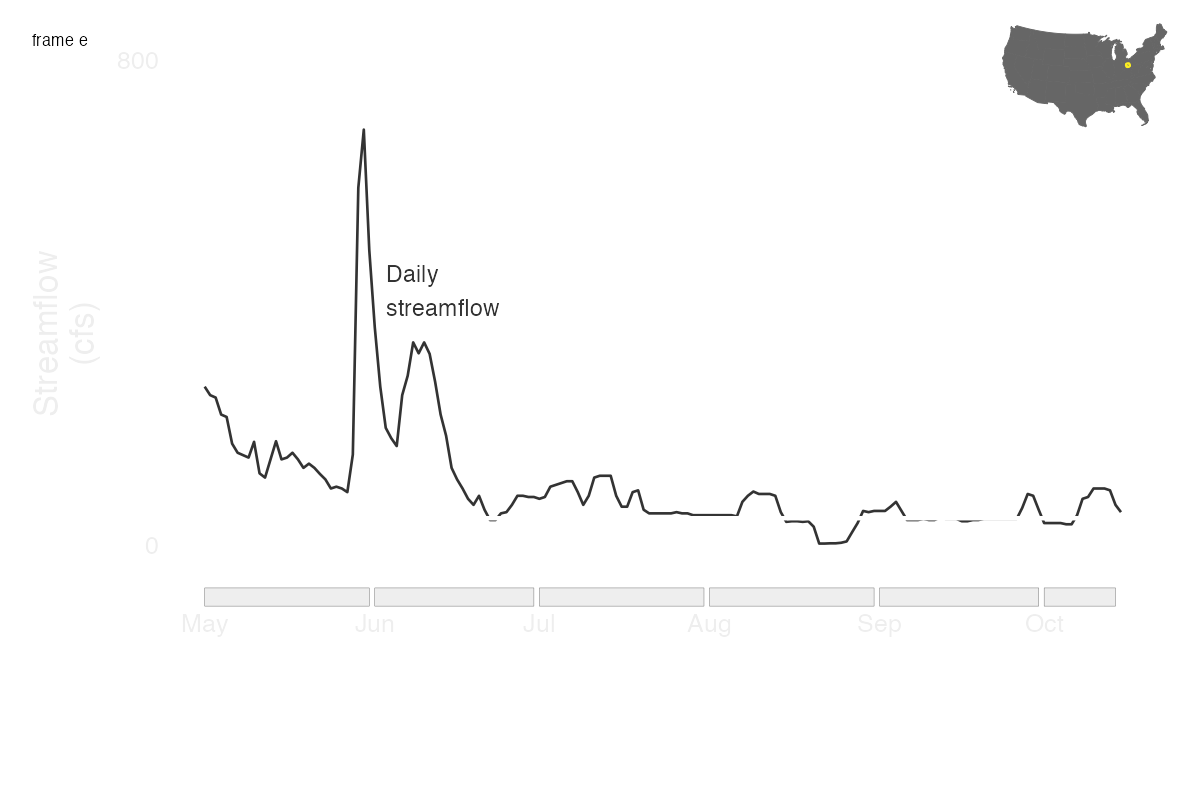
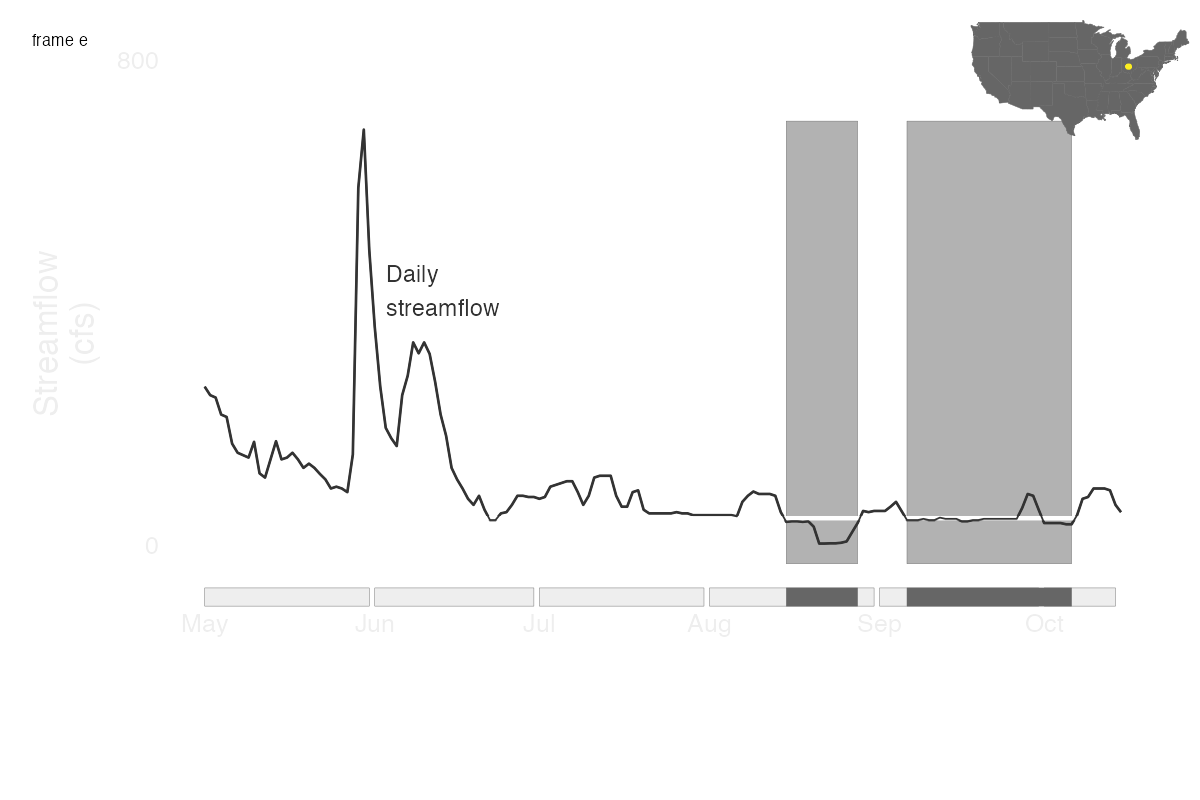
rework progression, remake inset map

Changed region(s): [[0.6475, 0.0, 1.0, 0.7812]]

diff --git a/src/assets/text/scrollyText.js b/src/assets/text/scrollyText.js
@@ -5,8 +5,26 @@ export default {
         {
           // id is used to source image files with the same naming
           // and used to assign classes to scrolling text
-          id: 'aa',
-          text: 'text aa: There are many types of drought, from meteorological drought to hydrological drought, and each type affects different aspects of our nation’s water use. Streamflow drought is one specific form of hydrological drought that is defined based on the rate of flow for a given stream in cubic feet per second.'
+          id: 'aa01',
+          text: 'text aa01: There are many different types of drought, with varying effects on our daily lives.'
+        },
+        {
+          // id is used to source image files with the same naming
+          // and used to assign classes to scrolling text
+          id: 'aa02',
+          text: 'text aa02: Drought often begins as meterological drought, which means that there is less rain or snow melt than expected.'
+        },
+        {
+          // id is used to source image files with the same naming
+          // and used to assign classes to scrolling text
+          id: 'aa03',
+          text: 'text aa03: Meterological drought can lead to agricultural drought, which is where soil moisture becomes depleted and our crops and livestock begin to suffer and farmers rely on using irrigation.'
+        },
+        {
+          // id is used to source image files with the same naming
+          // and used to assign classes to scrolling text
+          id: 'aa04',
+          text: 'text aa04: Prolonged agricultural drought can begin to cause hydrological drought, which affects deeper soil layers and eventually reduces streamflow. Streamflow drought is one type of hydrological drought.'
         },
         {
           // id is used to source image files with the same naming
@@ -20,47 +38,43 @@ export default {
         },
         {
           id: 'c',
-          text: 'text c: To begin, let\'s start with a hydrograph, which is a plot of streamflow over time. We can compare typical values as the daily average streamflow to actual values, represented by daily streamflow.'
+          text: 'text c: To begin, start with a hydrograph, which is a plot of streamflow over time. Here, we are looking at daily streamflow during the growing season of 1963. '
         },
         {
           id: 'd',
-          text: 'text d: A \"fixed\" threshold is created by first calculating average streamflow across all years and days.'
+          text: 'text d: A \"fixed\" threshold is created by first calculating average streamflow across all years and days and then calculating 10% of this annual average streamflow as the threshold.'
         },
         {
           id: 'e',
-          text: 'text e: And then calculating 10% of this annual average streamflow as the threshold. A drought is defined here as any time when streamflow is below 10% of the annual average streamflow.'
+          text: 'text e: That\'s how these periods of drought were defined. These dry-season droughts are especially important to detect for hydropower production and for aquatic ecosystems that rely on water year-round.'
         },
         {
           id: 'f',
-          text: 'text f: That\'s how these periods of drought were defined. These dry-season droughts are especially important to detect for hydropower or water system intakes where the absolute water level at any time of the year is really important.'
+          text: 'text f: But droughts can also occur in the spring and winter when we expect wetter conditions and greater streamflow from rain showers and snow melt! To understand this, let\'s zoom out and look at the average daily streamflow for the last 70 years or so.'
         },
         {
           id: 'g',
-          text: 'text g: But droughts can also occur in the spring and winter when we expect wetter conditions and greater streamflow from rain showers and snow melt!'
+          text: 'text g: In 1963, spring streamflow was much lower than a typical spring.'
         },
         {
           id: 'h',
-          text: 'text h: For example, in this year, spring streamflow was much lower than a typical spring.'
+          text: 'text h: To detect droughts in wetter seasons like this, we have to calculate a variable threshold as 10% of the average daily streamflow.'
         },
         {
           id: 'i',
-          text: 'text i: To detect droughts in wetter seasons, we have to calculate a variable threshold as 10% of the average daily streamflow.'
+          text: 'text i: By zooming back in, now we detect several droughts that happened in the spring. These wetter-season droughts are important to identify for city water managers trying to fill their reservoirs or for farmers planting early season crops.'
         },
         {
           id: 'j',
-          text: 'text j: Now we detect several droughts that happened in the spring. These wetter-season droughts are important to identify for city water managers trying to fill their reservoirs or for farmers planting early season crops.'
+          text: 'text j: When we use both ways of looking at drought, we can identify droughts during the spring when streamflow is higher and during the summer when streamflow is extremely low. Having this ability to know when drought is occurring throughout the year makes it easier to use water sustainably.'
         },
         {
           id: 'k',
-          text: 'text k: When we use both ways of looking at drought, we can identify droughts during the spring when streamflow is higher and during the summer when streamflow is extremely low. Having this ability to know when drought is occurring throughout the year makes it easier to use water sustainably.'
+          text: 'text k: These seasonal patterns are even more distinct when we look at the whole year.'
         },
         {
           id: 'l',
-          text: 'text l: These seasonal patterns are even more distinct when we look at the whole year.'
-        },
-        {
-          id: 'm',
-          text: 'text m: And even more recognizable across the past 70 years.'
+          text: 'text l: And even more recognizable across the past 70 years.'
         }
         ]
   };

diff --git a/src/components/DroughtThresholds.vue b/src/components/DroughtThresholds.vue
@@ -157,7 +157,7 @@ img {
   font-family: Roboto, 'Helvetica Neue', Arial, sans-serif;
   color: #FFE3AD;
   background: #5BA5B3;
-  mix-blend-mode: lighten;
+  //mix-blend-mode: lighten;
 }
 
 .smaller {
